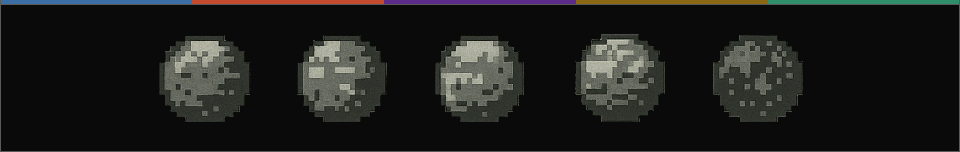
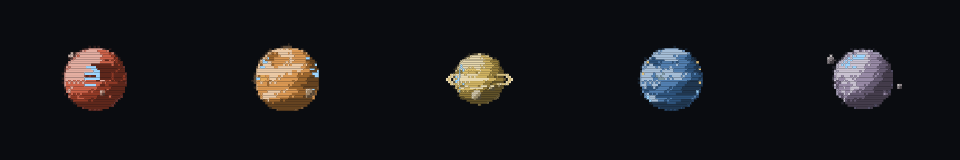
docs: replace README planet/weapon/ship strips with live game art wave 50
Export current combat hulls, faction emblems, iconRenderer weapons, and
procedural planet SVGs so GitHub no longer shows the old 2025 sprite sheets.

diff --git a/README.md b/README.md
@@ -157,7 +157,11 @@ change whether a faction trades and which prices it offers.
 
 <div align="center">
 
-<img src="assets/ui/readme-strip-planets.png" alt="Mars Jupiter Saturn Neptune Pluto theater sprites" width="960" />
+<img src="assets/ui/readme-strip-emblems.png" alt="Live faction emblems — Terran Kronax Voidborn Pirate Machine" width="960" />
+
+<br/>
+
+<img src="assets/ui/readme-strip-planets.png" alt="Live procedural planets — Mars Jupiter Saturn Neptune Pluto" width="960" />
 
 <br/>
 
@@ -238,7 +242,11 @@ connection settings, and disabled areas.
 
 <img src="assets/ui/readme-h-ships.svg" alt="CH.07 SHIPS" width="960" />
 
-<img src="assets/ui/readme-strip-ships.png" alt="Live hull sprites used in hangar and combat" width="960" />
+<img src="assets/ui/readme-strip-ships.png" alt="Live faction assault hulls from the combat renderer" width="960" />
+
+<br/>
+
+<img src="assets/ui/readme-strip-ship-classes.png" alt="Live Terran class ladder — scout assault heavy elite capital" width="960" />
 
 </div>
 
@@ -246,7 +254,7 @@ connection settings, and disabled areas.
 
 <div align="center">
 
-<img src="assets/ui/readme-strip-weapons.png" alt="Live weapon sprites from the battery registry" width="960" />
+<img src="assets/ui/readme-strip-weapons.png" alt="Live weapon icons from iconRenderer" width="960" />
 
 <br/>
 
@@ -288,11 +296,11 @@ Live captures from the current build (station shell, factions, travel, combat).
 
 <br/>
 
-<img src="assets/ui/readme-strip-ships.png" alt="Hull lineup from live sprites" width="960" />
+<img src="assets/ui/readme-strip-ships.png" alt="Live faction hull lineup" width="960" />
 
 <br/>
 
-<img src="assets/ui/readme-strip-planets.png" alt="Planet theater sprites" width="960" />
+<img src="assets/ui/readme-strip-planets.png" alt="Live procedural planet lineup" width="960" />
 
 <br/>
 
